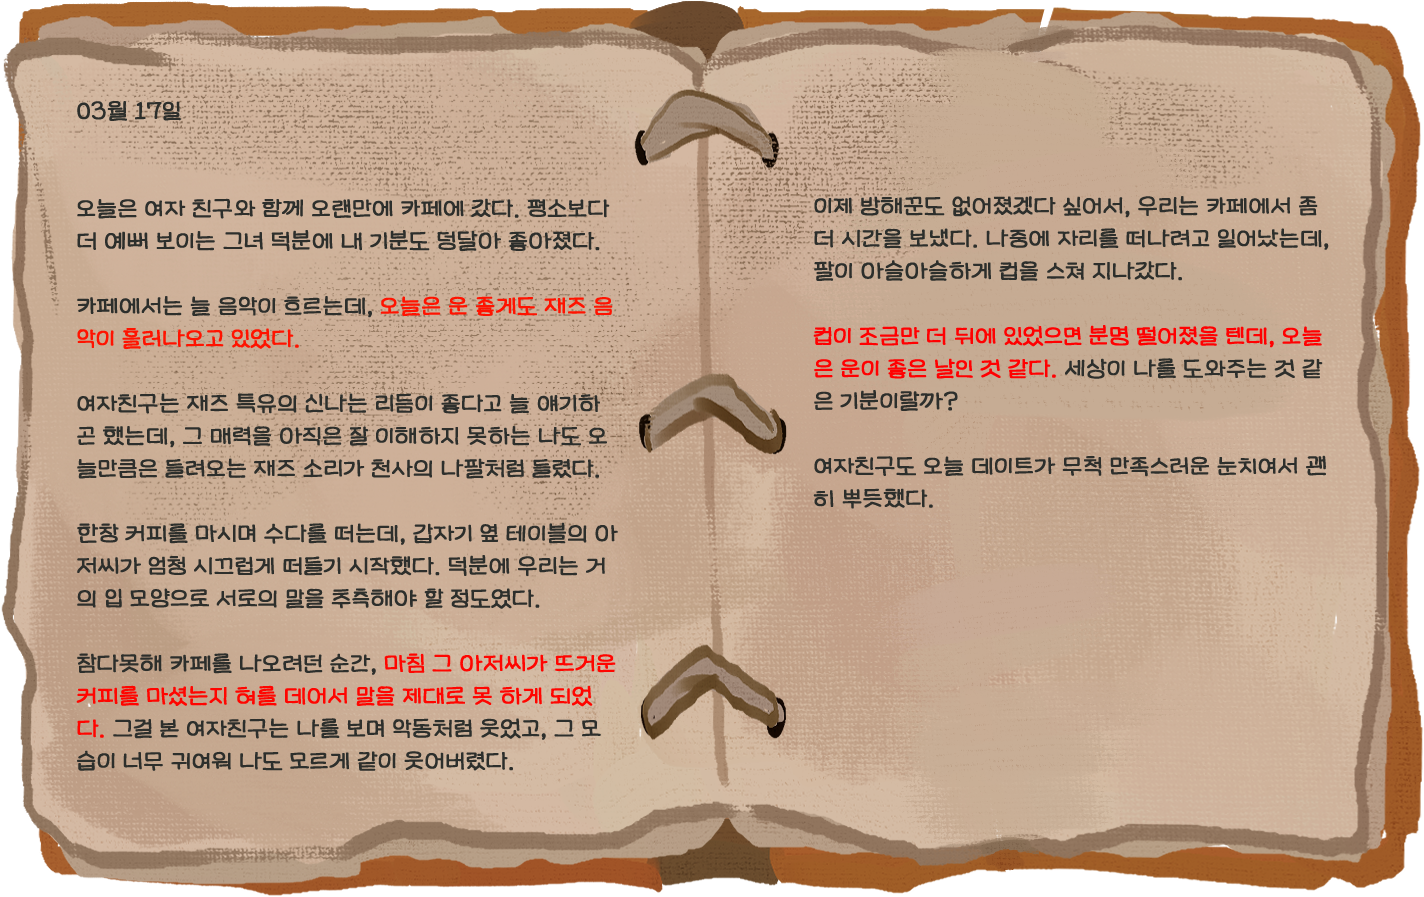
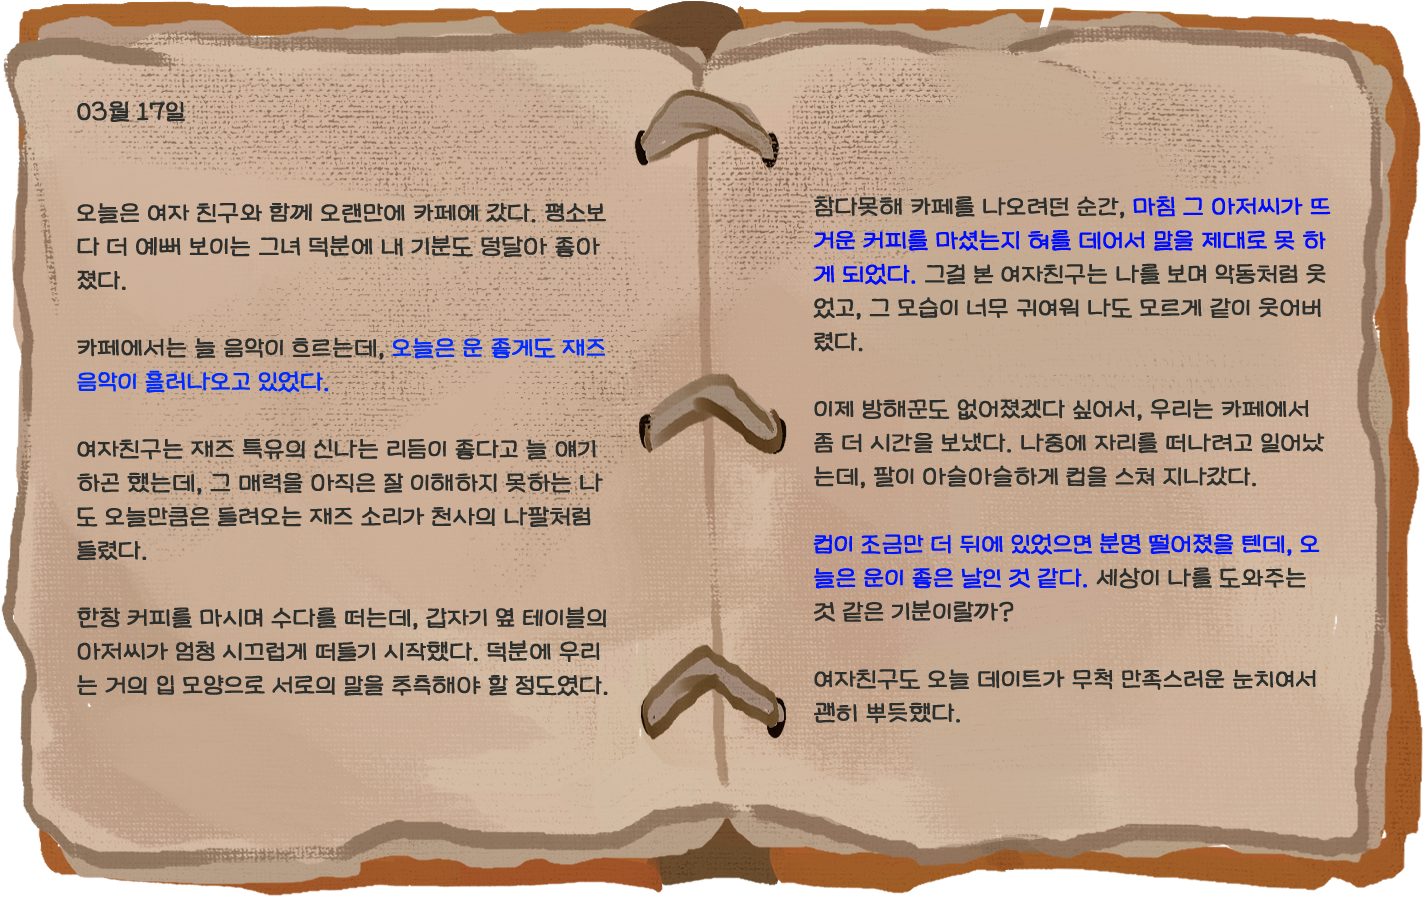
NEW::일기장 UI 구현

diff --git a/Assets/Scripts/ChaneNote.cs b/Assets/Scripts/ChaneNote.cs
@@ -1,0 +1,29 @@
+using System.Collections;
+using System.Collections.Generic;
+using UnityEngine;
+using UnityEngine.UI;
+
+public class ChangeNote : MonoBehaviour
+{
+    [SerializeField]
+    private Sprite BeginImg;
+    [SerializeField]
+    private Sprite AfterImg;
+    [SerializeField]
+    private GameObject PopUpImg;
+
+    [SerializeField]
+    public bool ClearTalk = false;
+
+    private void Awake()
+    {
+        //this.gameObject.GetComponent<SpriteRenderer>().sprite = BeginImg;
+    }
+    private void Update()
+    {
+        if(ClearTalk)
+        {
+            PopUpImg.gameObject.GetComponent<Image>().sprite = AfterImg;
+        }    
+    }
+}

diff --git a/Assets/Scripts/ChangeNote.cs b/Assets/Scripts/ChangeNote.cs
@@ -1,0 +1,22 @@
+using System.Collections;
+using System.Collections.Generic;
+using UnityEngine;
+
+public class ChaneNote : MonoBehaviour
+{
+    [SerializeField]
+    private Sprite BeforeImg;
+    [SerializeField]
+    private Sprite AfterImg;
+
+    [SerializeField]
+    public bool ClearTalk = false;
+
+    private void Update()
+    {
+        if(ClearTalk)
+        {
+            this.gameObject.GetComponent<SpriteRenderer>().sprite = AfterImg;
+        }    
+    }
+}
